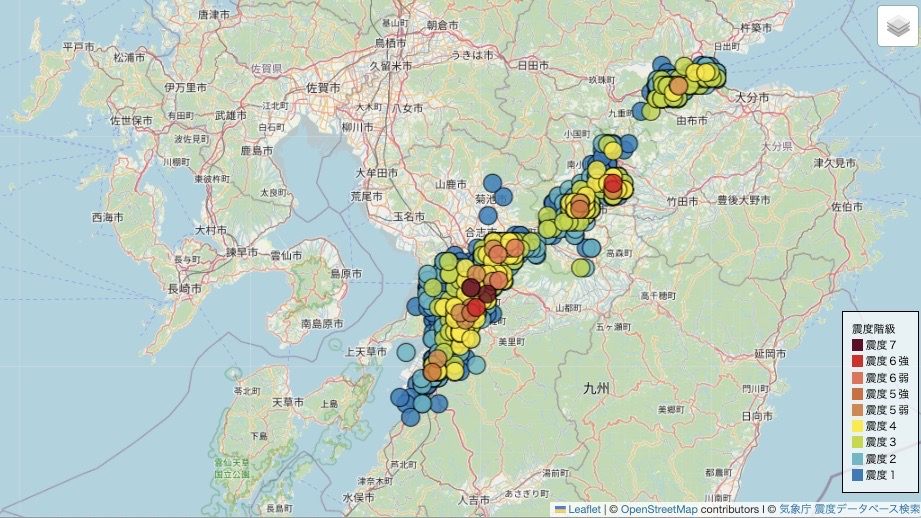
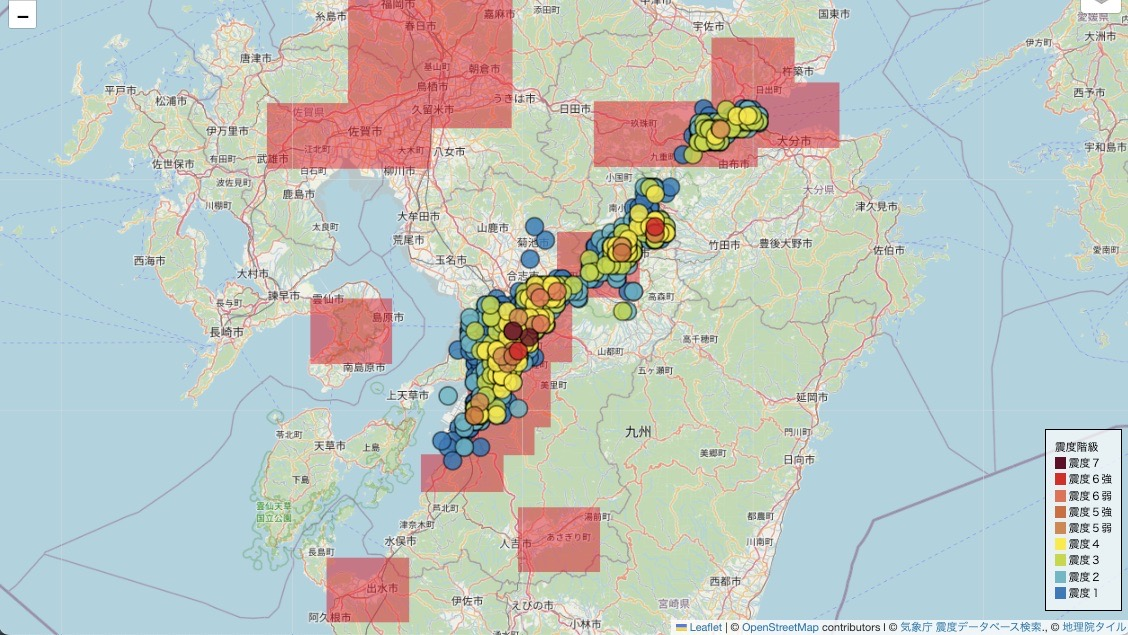
up

diff --git a/simulation/kumamoto/visualization1.html b/simulation/kumamoto/visualization1.html
@@ -1,6 +1,6 @@
 <!DOCTYPE HTML>
 <html lang="ja">
-<title>熊本地震の震度マップ</title>
+<title>熊本地震の震度マップと活断層図の重ね合わせ</title>
 
 <head prefix="og: http://ogp.me/ns# fb: http://ogp.me/ns/fb# article: http://ogp.me/ns/article#">
 	<meta charset="UTF-8" name="viewport" content="width=device-width, initial-scale=1, maximum-scale=1, user-scalable=no">
@@ -56,12 +56,10 @@
 
 			
 			L.tileLayer('https://{s}.tile.openstreetmap.org/{z}/{x}/{y}.png', {
-				attribution: '&copy; <a href="http://osm.org/copyright" target="_blank">OpenStreetMap</a> contributors l &copy; <a href="https://www.data.jma.go.jp/svd/eqdb/data/shindo/index.html" target="_blank">気象庁 震度データベース検索</a>.'
+				attribution: '&copy; <a href="http://osm.org/copyright" target="_blank">OpenStreetMap</a> contributors l &copy; <a href="https://www.data.jma.go.jp/svd/eqdb/data/shindo/index.html" target="_blank">気象庁 震度データベース検索</a> l &copy; <a href="http://osm.org/copyright" target="_blank">地理院タイル</a>'
 			}).addTo(map);
 
-			L.tileLayer('https://cyberjapandata.gsi.go.jp/xyz/afm/{z}/{x}/{y}.png', {
-				attribution: '&copy; <a href="http://osm.org/copyright" target="_blank">地理院タイル</a>'
-			}).addTo(map);			
+			L.tileLayer('https://cyberjapandata.gsi.go.jp/xyz/afm/{z}/{x}/{y}.png').addTo(map);			
 			
 			/* 震度マップ追加 */
 			let shindo1 = L.geoJson(shindomap1, {
@@ -309,7 +307,6 @@
 			layer.bindPopup(popup);
 		}
 	</script>
-	<title>熊本地震の震度マップと活断層マップ重ね合わせ</title>
 
 </head>
 
